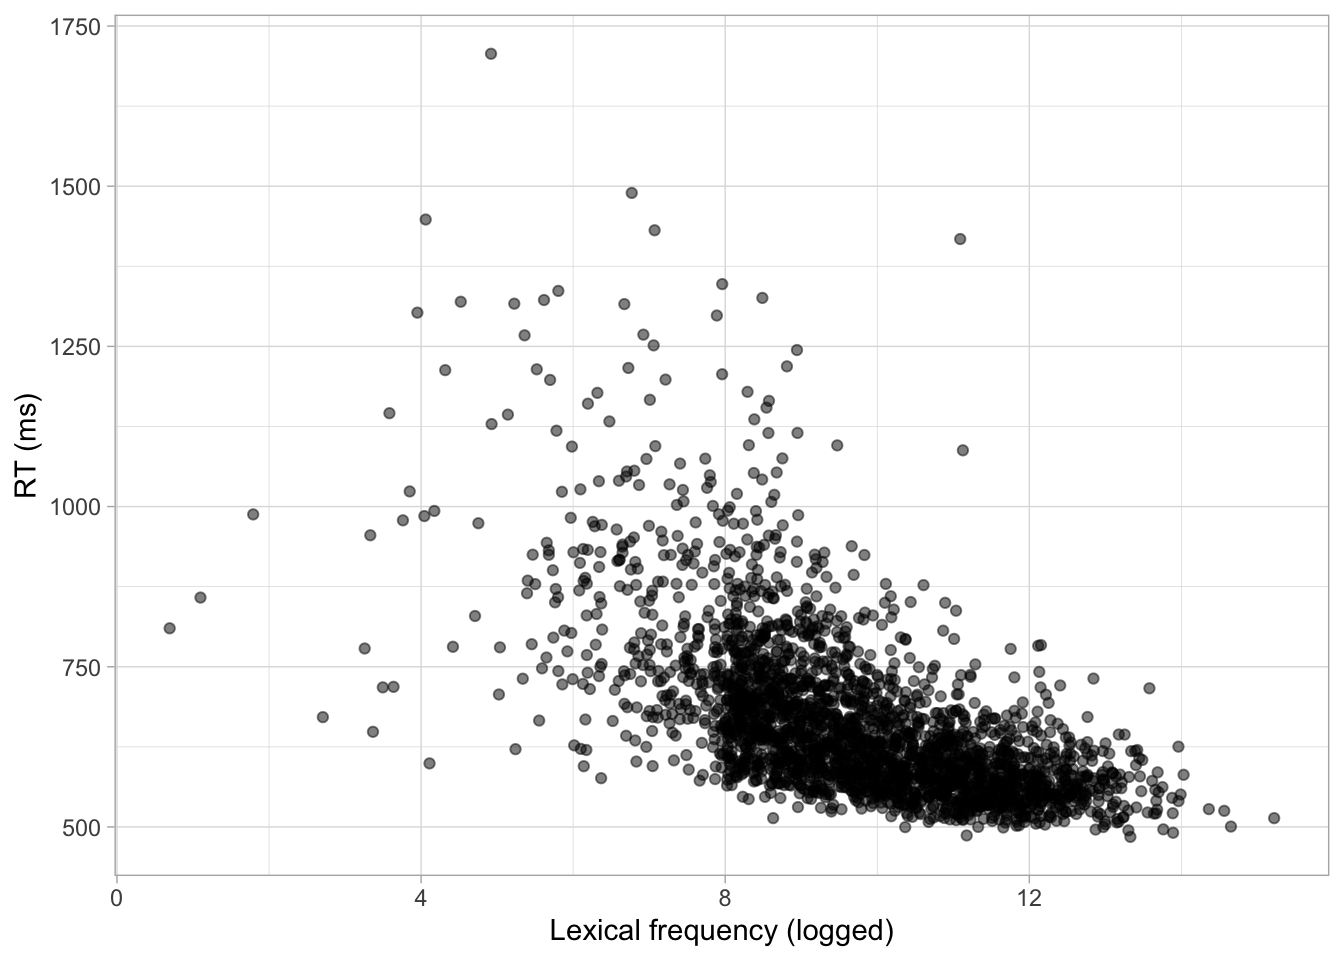
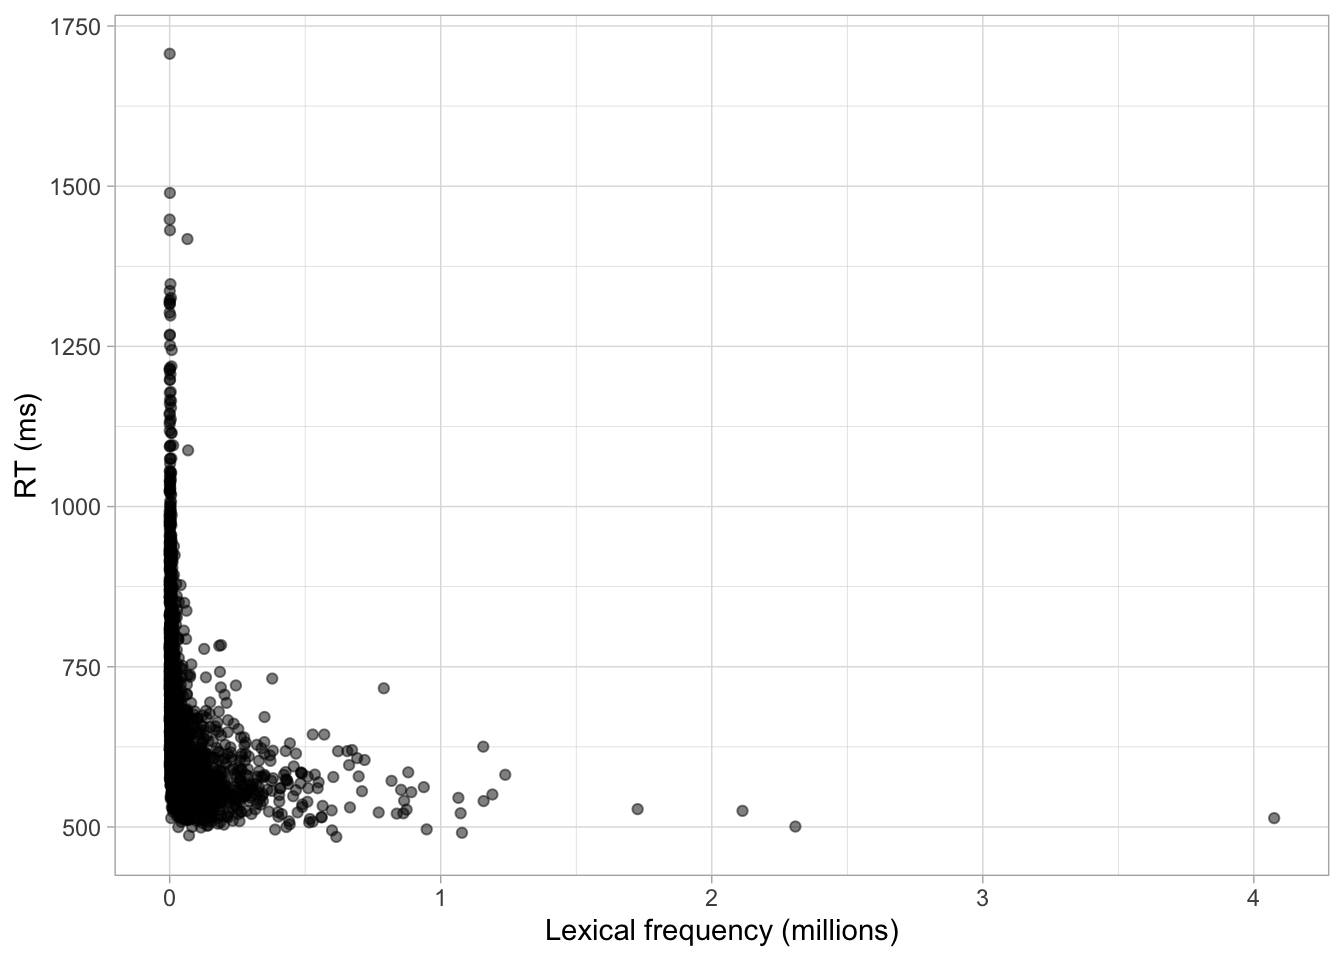
edit lectures

diff --git a/docs/lectures/week-05.html b/docs/lectures/week-05.html
@@ -171,38 +171,16 @@ Stefano Coretta
 </section>
 <section id="reaction-times" class="slide level2">
 <h2>Reaction times</h2>
-<div class="cell" data-layout-align="center">
-<div class="cell-output cell-output-stdout">
-<pre><code># A tibble: 2,612 × 3
-   word_string  rt_milliseconds_mean word_frequency
-   &lt;chr&gt;                       &lt;dbl&gt;          &lt;dbl&gt;
- 1 ribnjak                      575.           5755
- 2 dostupnost                   624.          15564
- 3 deformacija                  706.           6016
- 4 antioksidans                 914.           7646
- 5 zapis                        623.          44327
- 6 kvadrat                      549.          36394
- 7 presedan                     987.           7786
- 8 zapremnina                  1035.           1434
- 9 prerada                      750.          18759
-10 general                      625.          96640
-# ℹ 2,602 more rows</code></pre>
-</div>
 
-</div>
 <img data-src="week-05_files/figure-revealjs/rts-plot-1.png" class="quarto-figure quarto-figure-center r-stretch" width="672"></section>
-<section id="word-frequency" class="slide level2">
-<h2>Word frequency</h2>
-
-<img data-src="week-05_files/figure-revealjs/freq-plot-1.png" class="quarto-figure quarto-figure-center r-stretch" width="672"></section>
-<section id="word-frequency-logged" class="slide level2">
-<h2>Word frequency: logged</h2>
-
-<img data-src="week-05_files/figure-revealjs/freq-log-plot-1.png" class="quarto-figure quarto-figure-center r-stretch" width="672"></section>
 <section id="word-frequency-and-rts" class="slide level2">
 <h2>Word frequency and RTs</h2>
 
 <img data-src="week-05_files/figure-revealjs/rt-freq-plot-1.png" class="quarto-figure quarto-figure-center r-stretch" width="672"></section>
+<section id="logged-word-frequency-and-rts" class="slide level2">
+<h2>Logged word frequency and RTs</h2>
+
+<img data-src="week-05_files/figure-revealjs/rt-logfreq-plot-1.png" class="quarto-figure quarto-figure-center r-stretch" width="672"></section>
 <section id="gaussian-model-of-rt" class="slide level2">
 <h2>Gaussian model of RT</h2>
 <p><span class="math display">\[
@@ -251,9 +229,9 @@ y = \beta_0 + \beta_1 \cdot x
 <div class="callout-body">
 <div class="callout-content">
 <ul>
+<li><p>Go to <a href="https://stefanocoretta.shinyapps.io/lines/">Linear models illustrated</a>.</p></li>
 <li><p><span class="math inline">\(\beta_0\)</span> is the line <strong>intercept</strong>: the <span class="math inline">\(y\)</span> value when <span class="math inline">\(x\)</span> is <code>0</code> zero.</p></li>
 <li><p><span class="math inline">\(\beta_1\)</span> is the line <strong>slope</strong>: the change in <span class="math inline">\(y\)</span> for each unit-increase of <span class="math inline">\(x\)</span>.</p></li>
-<li><p>Go to <a href="https://stefanocoretta.shinyapps.io/lines/">Linear models illustrated</a>.</p></li>
 </ul>
 </div>
 </div>
@@ -300,6 +278,10 @@ RT &amp; \sim Gaussian(\mu, \sigma)\\
 <h2></h2>
 <iframe allowfullscreen="" frameborder="0" height="80%" mozallowfullscreen="" style="min-width: 500px; min-height: 355px" src="https://app.wooclap.com/events/EIZPEY/questions/68d3b78edd9a104b0899fcc1" width="100%"></iframe>
 </section>
+<section id="models-posterior-predictions" class="slide level2">
+<h2>Model’s posterior predictions</h2>
+
+<img data-src="week-05_files/figure-revealjs/rt-bm-cond-1.png" class="quarto-figure quarto-figure-center r-stretch" width="672"></section>
 <section id="word-frequency-and-reaction-times-bis" class="slide level2">
 <h2>Word frequency and reaction times (bis)</h2>
 <div class="callout callout-tip no-icon callout-style-simple">
@@ -354,8 +336,8 @@ RT &amp; \sim Gaussian(\mu, \sigma)\\
 </ul></li>
 <li>Language prestige vs government policy
 <ul>
-<li><strong>Collider</strong>: High prestige languages and officially supported languages each attract learners.</li>
-<li>If you only look at languages with many learners, prestige and policy might appear related even if they’re not causally connected.</li>
+<li>High prestige languages and officially supported languages each attract learners.</li>
+<li><strong>Collider</strong>: If you only look at languages with many learners, prestige and policy might appear related even if they’re not causally connected.</li>
 </ul></li>
 </ol>
 </div>
@@ -373,7 +355,7 @@ RT &amp; \sim Gaussian(\mu, \sigma)\\
 <div class="callout-content">
 <ul>
 <li><p>Correlation <em>can</em> be interpreted causally if you adopt a <strong>causal inference</strong> approach.</p></li>
-<li><p>We won’t treat causal inference in this course due to time, but you can learn about it in McElreath’s textbook <em>Statistical Rethinking</em>. I will also run a Causal Inference introduction workshop in Semester 2.</p></li>
+<li><p>Learn about it in McElreath’s textbook <em>Statistical Rethinking</em>. Also check <a href="https://uoelel.github.io/stew.html">STeW</a>.</p></li>
 </ul>
 </div>
 </div>
